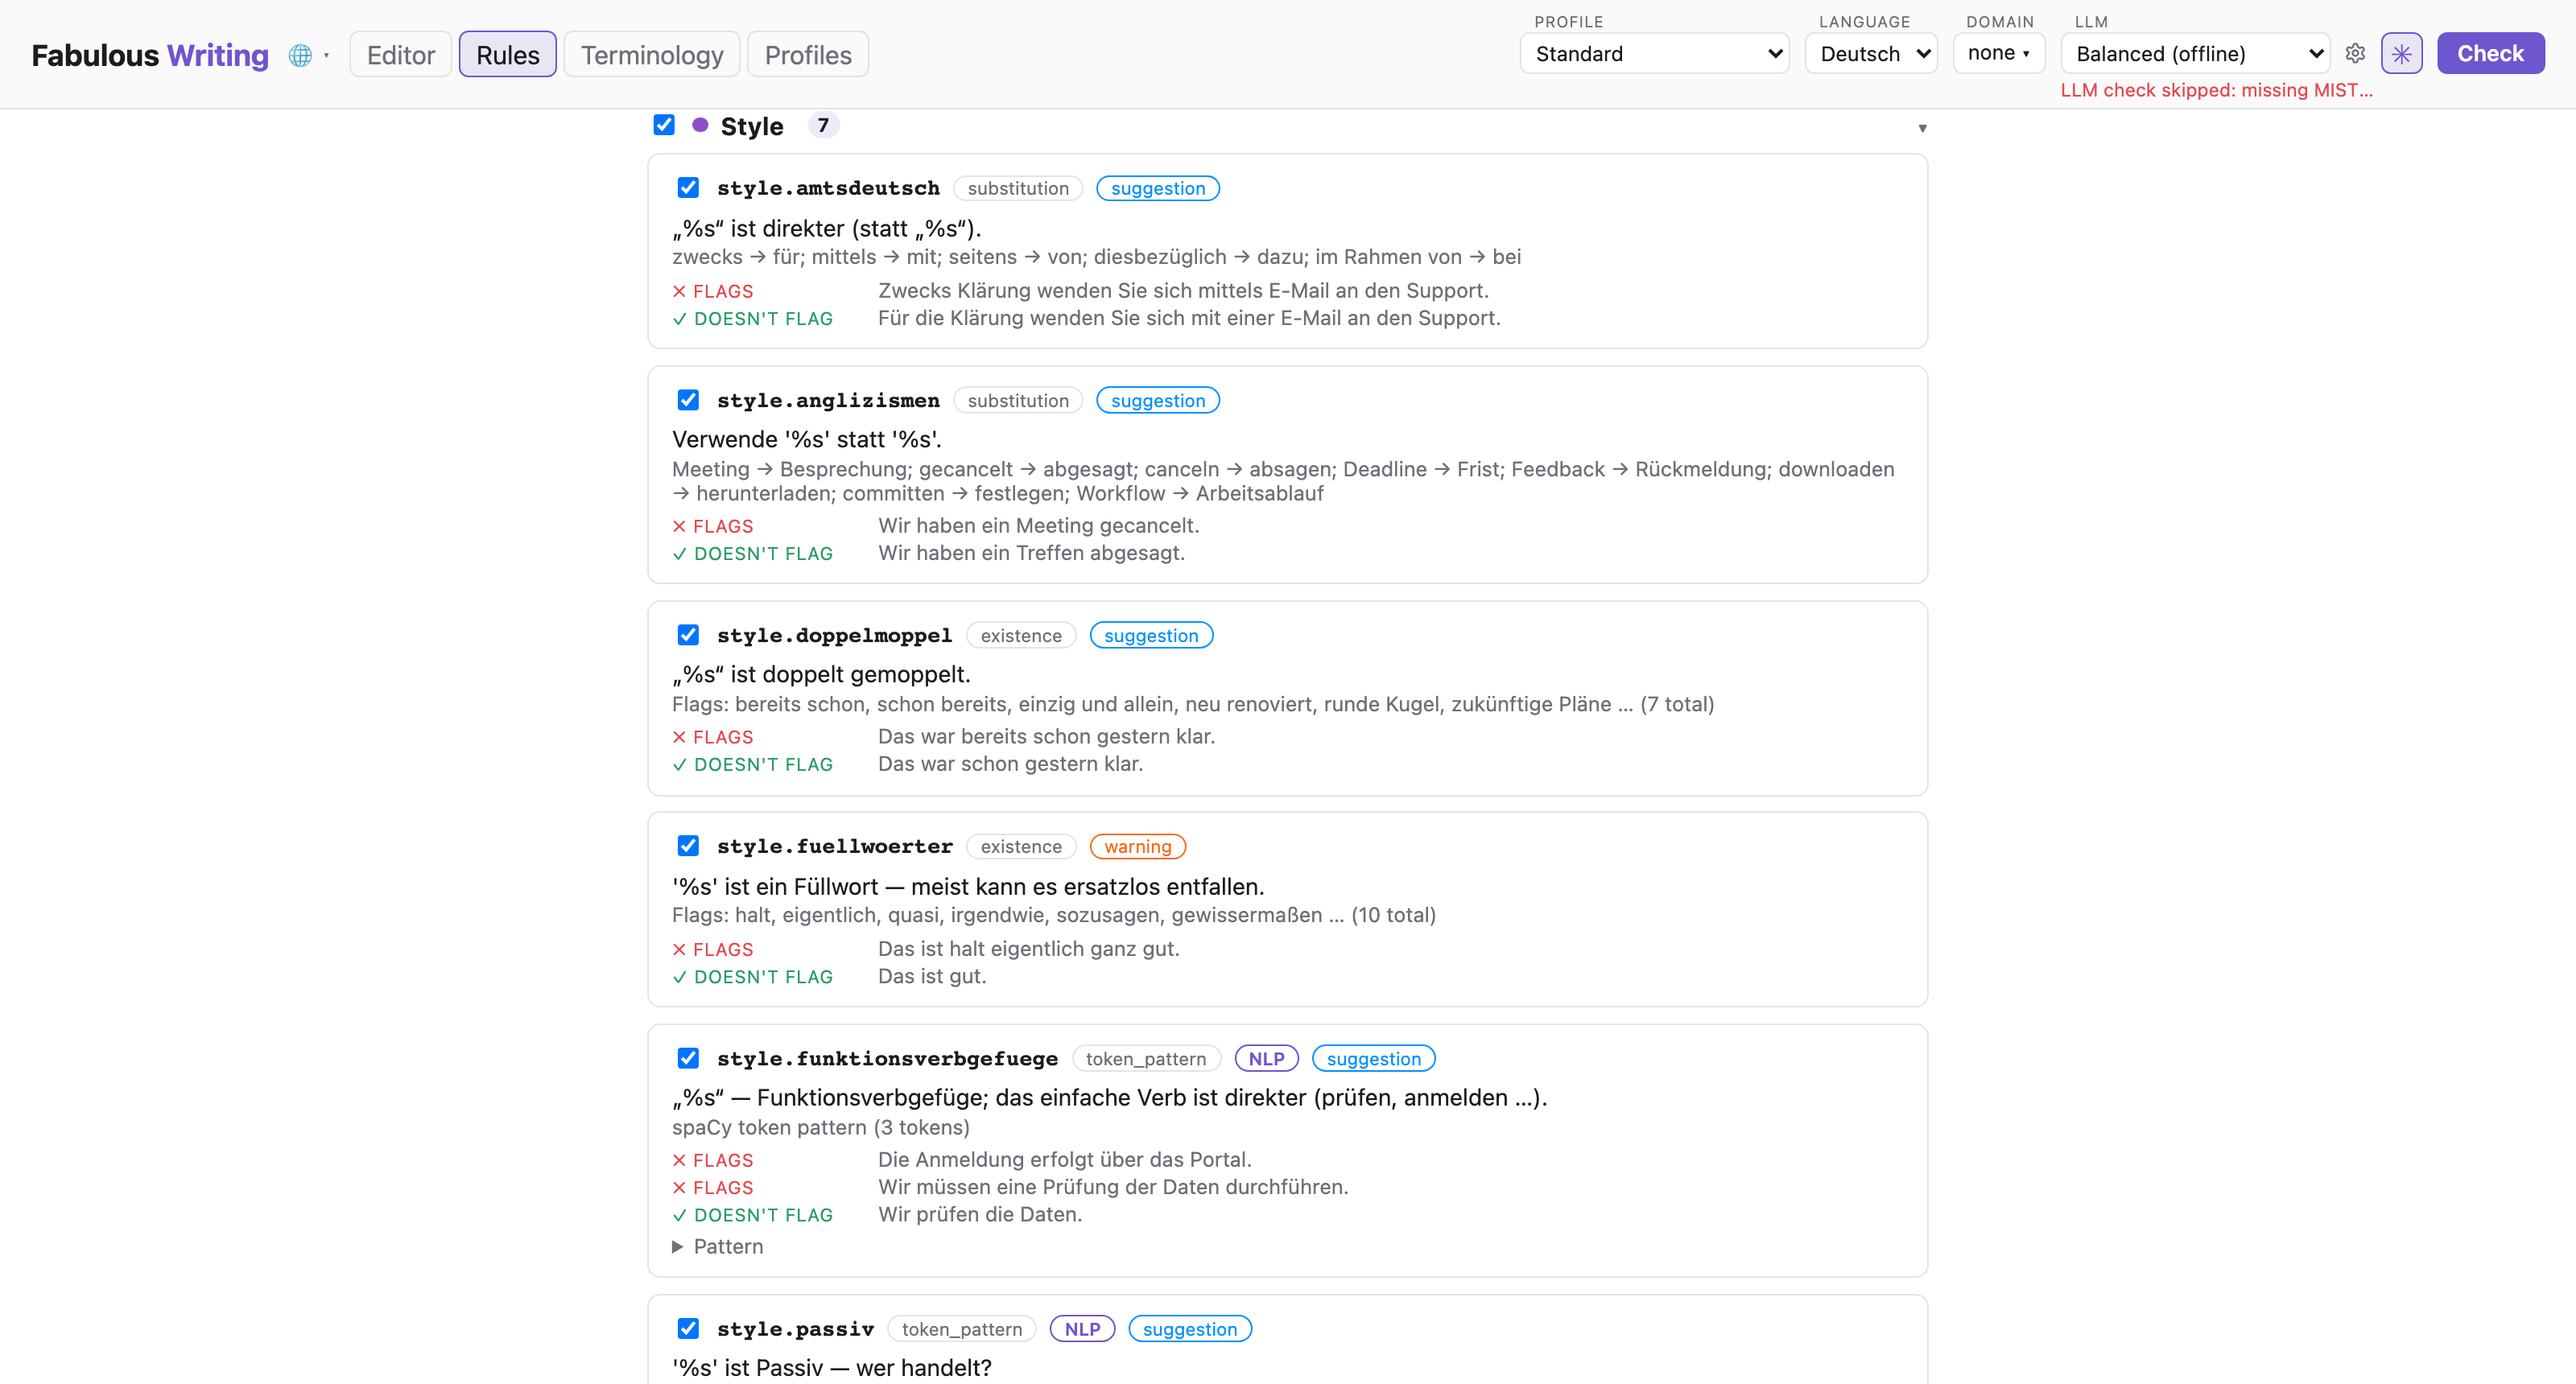
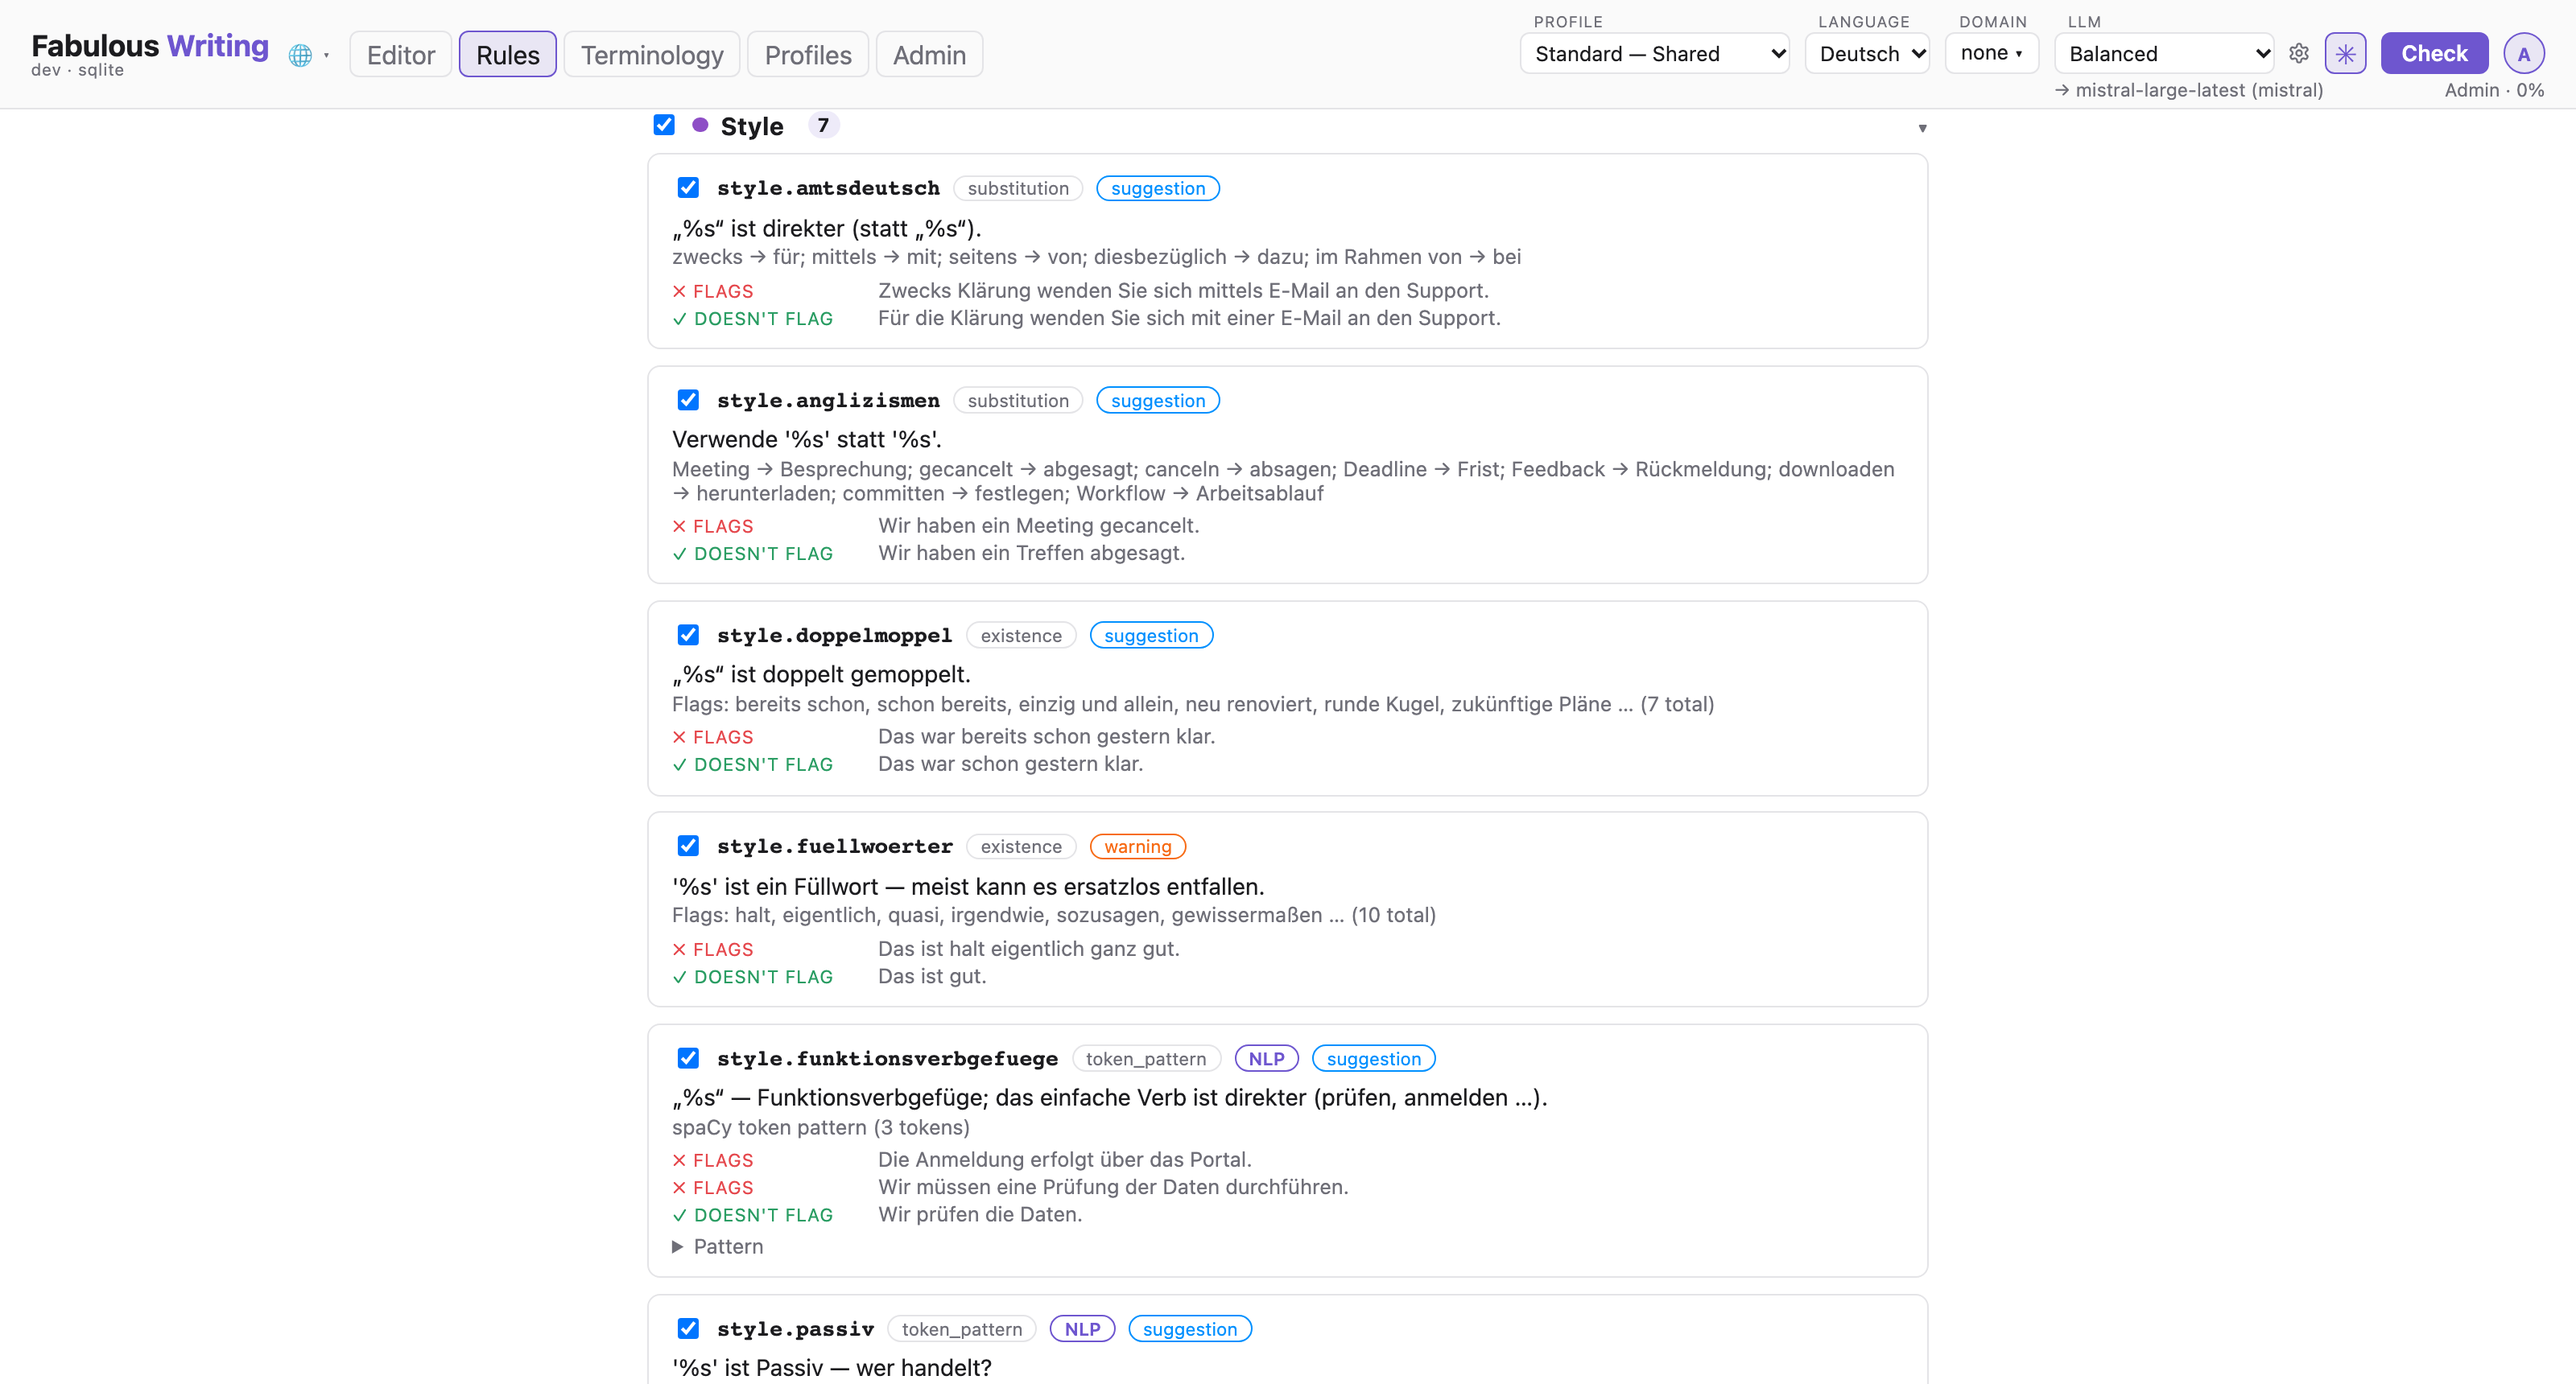
Terminology: admins can create shared domains (#221)
* feat(terminology): admins can create shared domains

POST /api/domains takes shared: true from an admin and creates a global
domain; the terminology view offers it as a checkbox below the add field.
Global concepts can then be linked to a second domain.

* feat(i18n): the badge of global items reads "Shared"
* docs: screenshots and wording for the "Shared" badge
* docs: screenshots without the missing-key warning
* docs(logbook): shared terminology domains for admins

diff --git a/frontend/src/terminology/TerminologyView.ownership.test.tsx b/frontend/src/terminology/TerminologyView.ownership.test.tsx
@@ -550,6 +550,30 @@ describe('TerminologyView answers from an entry the writer has left', () => {
   })
 })
 
+describe('TerminologyView shared domains', () => {
+  const features = { llm: { tiers: null, providers: null, models: null }, features: ['custom_domains'] }
+  const shared: Domain = { id: 5, name: 'Fresh', description: '', is_global: true }
+
+  it('offers the option to admins only', async () => {
+    useStore.setState({ user: user({ policy: features }) })
+    render(<TerminologyView />)
+    await screen.findByPlaceholderText(en.newDomainPlaceholder)
+    expect(screen.queryByRole('checkbox', { name: en.sharedDomain })).toBeNull()
+  })
+
+  it('creates a shared domain when ticked and unticks the option afterwards', async () => {
+    useStore.setState({ user: user({ is_admin: true, policy: features }) })
+    vi.mocked(createDomain).mockResolvedValue(shared)
+    render(<TerminologyView />)
+    const option = await screen.findByRole('checkbox', { name: en.sharedDomain })
+    await userEvent.click(option)
+    await userEvent.type(screen.getByPlaceholderText(en.newDomainPlaceholder), 'Fresh')
+    await userEvent.click(screen.getByRole('button', { name: en.add }))
+    await waitFor(() => expect(createDomain).toHaveBeenCalledWith('Fresh', true))
+    await waitFor(() => expect((option as HTMLInputElement).checked).toBe(false))
+  })
+})
+
 describe('TerminologyView leaving an entry with unsaved changes', () => {
   const privateA: Domain = { id: 2, name: 'Private A', description: '', is_global: false }
   const privateB: Domain = { id: 3, name: 'Private B', description: '', is_global: false }
@@ -615,7 +639,7 @@ describe('TerminologyView leaving an entry with unsaved changes', () => {
 
     await answerLeave(en.leaveUnsaved)
     await waitFor(() => expect(getConcepts).toHaveBeenCalledWith(added.id))
-    expect(createDomain).toHaveBeenCalledWith('Fresh')
+    expect(createDomain).toHaveBeenCalledWith('Fresh', false)
     expect(back()).toBeNull()
   })
 
@@ -625,7 +649,7 @@ describe('TerminologyView leaving an entry with unsaved changes', () => {
     await userEvent.click(await screen.findByRole('button', { name: 'alpha' }))
     await userEvent.type(screen.getByPlaceholderText(en.newDomainPlaceholder), 'Fresh')
     await userEvent.click(screen.getByRole('button', { name: en.add }))
-    expect(createDomain).toHaveBeenCalledWith('Fresh')
+    expect(createDomain).toHaveBeenCalledWith('Fresh', false)
     expect(back()).toBeNull()
     expect(screen.queryByRole('textbox', { name: en.definitionLabel })).toBeNull()
   })
@@ -658,7 +682,7 @@ describe('TerminologyView leaving an entry with unsaved changes', () => {
     await userEvent.click(await screen.findByRole('button', { name: 'alpha' }))
     await userEvent.type(screen.getByPlaceholderText(en.newDomainPlaceholder), 'Fresh')
     await userEvent.click(screen.getByRole('button', { name: en.add }))
-    await waitFor(() => expect(createDomain).toHaveBeenCalledWith('Fresh'))
+    await waitFor(() => expect(createDomain).toHaveBeenCalledWith('Fresh', false))
     expect(screen.queryByRole('dialog')).toBeNull()
   })
 
@@ -1055,7 +1079,7 @@ describe('TerminologyView domain actions and late answers', () => {
     await userEvent.clear(field)
     await userEvent.type(field, 'Second')
     await userEvent.click(screen.getByRole('button', { name: en.add }))
-    await waitFor(() => expect(createDomain).toHaveBeenCalledWith('Second'))
+    await waitFor(() => expect(createDomain).toHaveBeenCalledWith('Second', false))
   })
 
   it('applies only the latest domain list answer', async () => {

diff --git a/frontend/src/terminology/TerminologyView.tsx b/frontend/src/terminology/TerminologyView.tsx
@@ -41,6 +41,7 @@ export function TerminologyView() {
   }, [])
   const [pendingDelete, setPendingDelete] = useState<{ id: number; name: string; count: number } | null>(null)
   const [newDomain, setNewDomain] = useState('')
+  const [newShared, setNewShared] = useState(false)
   const unsaved = useStore((s) => s.terminologyUnsaved)
   const setUnsaved = useStore((s) => s.setTerminologyUnsaved)
   const [pendingLeave, setPendingLeave] = useState<(() => void) | null>(null)
@@ -143,8 +144,9 @@ export function TerminologyView() {
         setCreating(true)
         try {
           showEntry(null)
-          const domain = await createDomain(name)
+          const domain = await createDomain(name, newShared)
           setNewDomain('')
+          setNewShared(false)
           await refreshDomains()
           if (!useStore.getState().terminologyUnsaved) setActiveDomainId(domain.id)
         } finally {
@@ -306,6 +308,17 @@ export function TerminologyView() {
               {m.add}
             </button>
           </div>
+        )}
+        {canCreate && isAdmin && (
+          <label className="add-domain-shared">
+            <input
+              type="checkbox"
+              checked={newShared}
+              disabled={creating}
+              onChange={(event) => setNewShared(event.target.checked)}
+            />
+            {m.sharedDomain}
+          </label>
         )}
       </aside>
       {pendingDelete !== null && (

diff --git a/frontend/src/api/client.ts b/frontend/src/api/client.ts
@@ -663,10 +663,10 @@ export const getRules = (language: Language) =>
   request<RulesResponse>(`/api/rules?language=${language}`)
 
 export const getDomains = () => request<Domain[]>('/api/domains')
-export const createDomain = (name: string, description = '') =>
+export const createDomain = (name: string, shared = false) =>
   request<Domain>('/api/domains', {
     method: 'POST',
-    body: JSON.stringify({ name, description }),
+    body: JSON.stringify({ name, shared }),
   })
 export const updateDomain = (id: number, name: string) =>
   request<Domain>(`/api/domains/${id}`, {

diff --git a/frontend/src/i18n/fr.ts b/frontend/src/i18n/fr.ts
@@ -144,11 +144,12 @@ export const fr: Messages = {
       structure: 'structure',
     })[d],
 
-  globalBadge: 'Intégré',
-  globalBadgeTitle: 'Élément intégré — seuls les administrateurs peuvent le modifier',
+  globalBadge: 'Partagé',
+  globalBadgeTitle: 'Élément partagé — visible par tous, seuls les administrateurs peuvent le modifier',
 
   domains: 'Domaines',
   newDomainPlaceholder: 'Nouveau domaine…',
+  sharedDomain: 'Partagé avec tous les utilisateurs',
   add: 'Ajouter',
   deleteDomainTitle: 'Supprimer le domaine',
   concepts: 'Concepts',

diff --git a/frontend/src/i18n/es.ts b/frontend/src/i18n/es.ts
@@ -144,11 +144,12 @@ export const es: Messages = {
       structure: 'estructura',
     })[d],
 
-  globalBadge: 'Integrado',
-  globalBadgeTitle: 'Elemento integrado — solo los administradores pueden modificarlo',
+  globalBadge: 'Compartido',
+  globalBadgeTitle: 'Elemento compartido — visible para todos, solo los administradores pueden modificarlo',
 
   domains: 'Dominios',
   newDomainPlaceholder: 'Nuevo dominio…',
+  sharedDomain: 'Compartido con todos los usuarios',
   add: 'Añadir',
   deleteDomainTitle: 'Eliminar dominio',
   concepts: 'Conceptos',

diff --git a/frontend/src/i18n/it.ts b/frontend/src/i18n/it.ts
@@ -140,11 +140,12 @@ export const it: Messages = {
       structure: 'struttura',
     })[d],
 
-  globalBadge: 'Integrato',
-  globalBadgeTitle: 'Elemento integrato — solo gli amministratori possono modificarlo',
+  globalBadge: 'Condiviso',
+  globalBadgeTitle: 'Elemento condiviso — visibile a tutti, solo gli amministratori possono modificarlo',
 
   domains: 'Domini',
   newDomainPlaceholder: 'Nuovo dominio…',
+  sharedDomain: 'Condiviso con tutti gli utenti',
   add: 'Aggiungi',
   deleteDomainTitle: 'Elimina dominio',
   concepts: 'Concetti',

diff --git a/frontend/src/i18n/de.ts b/frontend/src/i18n/de.ts
@@ -140,11 +140,12 @@ export const de: Messages = {
       structure: 'Struktur',
     })[d],
 
-  globalBadge: 'Mitgeliefert',
-  globalBadgeTitle: 'Mitgelieferter Eintrag — nur Administratoren können ihn ändern',
+  globalBadge: 'Geteilt',
+  globalBadgeTitle: 'Geteilter Eintrag — für alle sichtbar, nur Administratoren können ihn ändern',
 
   domains: 'Domänen',
   newDomainPlaceholder: 'Neue Domäne…',
+  sharedDomain: 'Mit allen Benutzern geteilt',
   add: 'Hinzufügen',
   deleteDomainTitle: 'Domäne löschen',
   concepts: 'Konzepte',

diff --git a/frontend/src/i18n/ja.ts b/frontend/src/i18n/ja.ts
@@ -132,11 +132,12 @@ export const ja: Messages = {
       structure: '構成',
     })[d],
 
-  globalBadge: '組み込み',
-  globalBadgeTitle: '組み込み項目 — 変更できるのは管理者のみ',
+  globalBadge: '共有',
+  globalBadgeTitle: '共有項目 — 全員に表示、変更できるのは管理者のみ',
 
   domains: 'ドメイン',
   newDomainPlaceholder: '新しいドメイン…',
+  sharedDomain: '全ユーザーと共有',
   add: '追加',
   deleteDomainTitle: 'ドメインを削除',
   concepts: '概念',

diff --git a/frontend/src/i18n/en.ts b/frontend/src/i18n/en.ts
@@ -128,11 +128,12 @@ export const en: Messages = {
       structure: 'structure',
     })[d],
 
-  globalBadge: 'Built-in',
-  globalBadgeTitle: 'Built-in item — only admins can change it',
+  globalBadge: 'Shared',
+  globalBadgeTitle: 'Shared item — visible to everyone, only admins can change it',
 
   domains: 'Domains',
   newDomainPlaceholder: 'New domain…',
+  sharedDomain: 'Shared with all users',
   add: 'Add',
   deleteDomainTitle: 'Delete domain',
   concepts: 'Concepts',

diff --git a/frontend/src/i18n/zh.ts b/frontend/src/i18n/zh.ts
@@ -130,11 +130,12 @@ export const zh: Messages = {
       structure: '结构',
     })[d],
 
-  globalBadge: '内置',
-  globalBadgeTitle: '内置项 — 仅管理员可修改',
+  globalBadge: '共享',
+  globalBadgeTitle: '共享项 — 所有人可见，仅管理员可修改',
 
   domains: '领域',
   newDomainPlaceholder: '新领域…',
+  sharedDomain: '与所有用户共享',
   add: '添加',
   deleteDomainTitle: '删除领域',
   concepts: '概念',

diff --git a/frontend/src/App.css b/frontend/src/App.css
@@ -968,6 +968,14 @@ span.score-badge {
   min-width: 0;
 }
 
+.add-domain-shared {
+  display: flex;
+  align-items: center;
+  gap: 0.35rem;
+  margin-top: 0.4rem;
+  font-size: 0.85rem;
+}
+
 .concept-list {
   flex: 1;
   padding: 1rem;

diff --git a/frontend/src/i18n/messages.ts b/frontend/src/i18n/messages.ts
@@ -126,6 +126,7 @@ export interface Messages {
   // Terminology view
   domains: string
   newDomainPlaceholder: string
+  sharedDomain: string
   add: string
   deleteDomainTitle: string
   concepts: string
